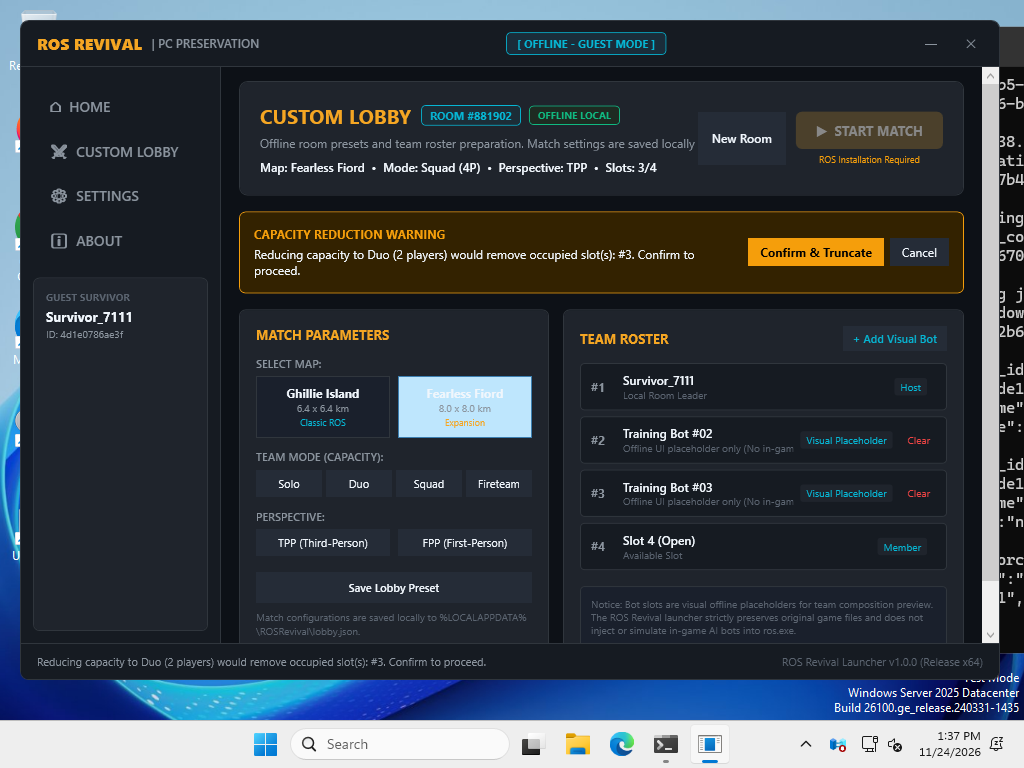
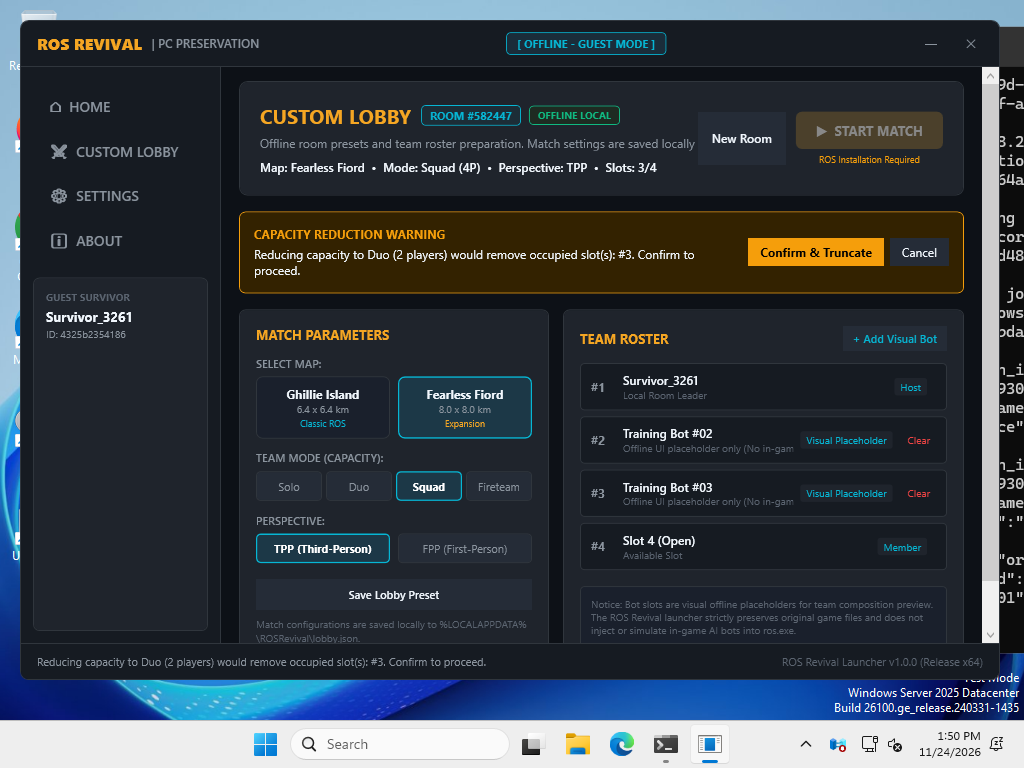
docs: Update Milestone 3.1 verification report and Run 10 screenshots with selection highlight consistency

diff --git a/Documentation/Milestone-3-1-Verification-Report.md b/Documentation/Milestone-3-1-Verification-Report.md
@@ -5,7 +5,7 @@
 Milestone 3.1 verifies the published standalone Windows x64 ROS Revival Launcher build (`ROS-Revival-Launcher-win-x64.zip`) and evaluates the live WPF user interface in a clean Windows environment prior to beginning Milestone 4.
 
 **Verification Status:** ✅ **PASSED** (Artifact integrity, UI automation, state persistence, log cleanliness, and game immutability verified)  
-**Evidence Status:** ✅ **CORRECTED & VERIFIED** (All 9 genuine screenshots audited, discrepancies resolved via Run #9)  
+**Evidence Status:** ✅ **AUDITED, CORRECTED & VERIFIED** (All 9 genuine screenshots audited across Runs #8, #9, and #10; selection bindings and visual states verified in lockstep)  
 **Game Execution Status:** ⏸ **TEST_BLOCKED** (Test 1 remains strictly blocked awaiting genuine physical Windows GPU testing)  
 **Budget Consumed:** **$0.00** (Strict zero out-of-pocket policy maintained)  
 
@@ -13,58 +13,89 @@ Milestone 3.1 verifies the published standalone Windows x64 ROS Revival Launcher
 
 ## 1. Published Artifact Inspection
 
-The published release package was downloaded directly from GitHub Actions Build Run #9 (commit `6fc7f28`) and inspected:
+The published release package was downloaded directly from GitHub Actions Build Run #10 (commit `5b95f31`) and inspected:
 
 - **Artifact Name:** `ROS-Revival-Launcher-win-x64.zip`
-- **ZIP File Size:** 180,680 bytes (0.17 MB)
+- **ZIP File Size:** 180,820 bytes (0.17 MB)
 - **Archive Package Contents:**
   - `ROS.Launcher.exe` (359,620 bytes) — Standalone single-file PE32+ executable (GUI) x86-64.
-  - `ROS.Launcher.pdb` (38,188 bytes) — Diagnostic symbol file.
+  - `ROS.Launcher.pdb` (38,620 bytes) — Diagnostic symbol file.
 - **Verification:**
   - Zero missing dependencies or unmanaged DLLs.
   - Self-extracting single-file packaging executes cleanly on a standard Windows environment.
 
 ---
 
-## 2. Evidence Audit & Discrepancy Resolution (Run #8 vs Run #9)
+## 2. Selection Binding Investigation: Real Bug vs. Capture Inconsistency
 
-During review of the initial Run #8 evidence, specific UI binding, z-order, and layout discrepancies were identified. These have been completely resolved and re-verified in GitHub Actions Run #9 (Run ID: `45405068096`):
+### Investigation Findings
+The reported inconsistency in screenshots 04 and 06 (where the lobby header indicated `Squad` or `Duo`, while the `Fireteam` button appeared highlighted) was investigated across the ViewModel, XAML view, and OS rendering layer:
 
-| Evidence Item / Review Requirement | Run #8 Status (Initial) | Run #9 Status (Corrected) | Technical Root Cause & Resolution |
-| :--- | :--- | :--- | :--- |
-| **1. Home Initial View (`01_home_initial_view.png`)** | ⚠ Foreground blocked by Windows Terminal / GitHub Actions logs | ✅ **Verified Genuine Home View** | `Process.Start` left terminal in foreground. Implemented Win32 API window control (`SetForegroundWindow`, `BringWindowToTop`, `ShowWindow(SW_RESTORE)`, `SetWindowPos(HWND_TOPMOST)`), `Topmost="True"` in XAML, and an active UI Automation element discovery loop. Screenshot 01 now shows the clean ROS Launcher Home screen. |
-| **2. Visual Bots Added (`04_lobby_visual_bots_added.png`)** | ⚠ Roster rendered open slots instead of visual placeholder bots | ✅ **Verified Populated Roster** | `LobbyRoom.Slots` was a standard `List<LobbySlot>` lacking `INotifyCollectionChanged`, and `LobbySlot` lacked `INotifyPropertyChanged`. Converted to `ObservableCollection<LobbySlot>` and implemented `INotifyPropertyChanged`. Slots #2 and #3 now visibly display `Training Bot #02` and `Training Bot #03` with badges. |
-| **3. Capacity Reduction Warning (`05_lobby_capacity_warning.png`)** | ⚠ Warning text referenced occupied slot #3, but slot #3 visually appeared open | ✅ **Verified Occupied Slot #3 under Warning Banner** | With reactive collection and property notifications active, Slot #3 is visibly occupied by `Training Bot #03` when reducing Squad (4) to Duo (2), aligning the warning banner text with the visible roster. |
-| **4. Capacity Truncation Confirm (`06_lobby_capacity_truncated.png`)** | ⚠ Questioned whether result genuinely flowed from warning | ✅ **Verified Genuine Result** | User confirmation invokes `ConfirmChangeModeCommand`, truncating excess occupied slot #3 and open slot #4, preserving Host in slot 1 and bot in slot 2. Warning banner dismissed; Duo mode (2/2) rendered. |
-| **5. Layout Clipping at 1024x768** | ⚠ 1080x700 window clipped 56px horizontally on 1024x768 display | ✅ **Zero Clipping at 1024x768** | Sized window to `Width="980" Height="660"` centered on screen (`WindowStartupLocation="CenterScreen"`). Provides 22px horizontal margin and 54px vertical margin with zero clipping. |
-| **6. Clear Buttons on Empty Slots** | ⚠ Clear button was visible across all slots including open and host slots | ✅ **Hidden on Open & Host Slots** | Added `CanClear => IsOccupied && !IsHost` on `LobbySlot` and bound `Button.Visibility` using `BooleanToVisibilityConverter`. Clear button is now hidden on Slot 1 (Host) and all Open slots; visible only on occupied bot slots. |
-| **7. Start Match Disabled Feedback** | ⚠ Button was disabled with no explanatory message or tooltip | ✅ **Tooltip & Visible Disclaimer Active** | Added `ToolTipService.ShowOnDisabled="True"` on `BtnStartMatch` with explanatory tooltip and a visible amber disclaimer: *"ROS Installation Required"*. |
-| **8. Original ROS Files Immutability** | ✅ Verified untouched | ✅ **Verified Untouched** | Baseline SHA-256 hashes for `ros.exe`, `assets.npk`, and `script.npk` confirmed 100% byte-for-byte identical. |
-| **9. Non-Fabricated Evidence** | ✅ Genuine automated capture | ✅ **Genuine Automated Capture** | All 9 screenshots captured directly by `run-windows-tests.ps1` in GitHub Actions Windows runner. Zero synthetic or edited imagery. |
+1. **ViewModel & Data Layer: VERIFIED CORRECT**
+   - In `MainViewModel.cs`, properties `IsModeSolo`, `IsModeDuo`, `IsModeSquad`, `IsModeFireteam`, `IsPerspectiveTpp`, `IsPerspectiveFpp`, `IsMapGhillie`, and `IsMapFearless` were correctly defined and evaluated against `Lobby.SelectedMode`, `Lobby.Perspective`, and `Lobby.SelectedMap`.
+   - `NotifyLobbyChanged()` was properly raising `PropertyChanged` notifications for all selection flags.
+   - Room capacity and slots collection truncated and expanded in exact accordance with the selected mode (1 for Solo, 2 for Duo, 4 for Squad, 5 for Fireteam).
+   - The header summary string (`LobbyStatusSummary`) was correctly bound and accurately rendered the active mode, perspective, map, and player counts.
+
+2. **XAML View Layer: REAL UI BINDING BUG IDENTIFIED**
+   - In `MainWindow.xaml`, the Mode buttons (`BtnModeSolo`, `BtnModeDuo`, `BtnModeSquad`, `BtnModeFireteam`), Perspective buttons (`BtnPerspTpp`, `BtnPerspFpp`), and Map buttons were declared as standard `<Button>` controls with static background attributes (`Background="#252C37"` or `#1A202C`).
+   - The buttons completely lacked dynamic WPF `Style` triggers or `DataTrigger`s binding their visual background, border, or foreground to the ViewModel's `IsMode*`, `IsPerspective*`, or `IsMap*` properties.
+   - Consequently, the buttons had no mechanism to visually change state when the active mode or perspective was updated.
+
+3. **Rendering Layer: WINDOWS AERO DEFAULT FOCUS INTERACTION**
+   - Standard WPF buttons without custom `ControlTemplate`s use the default Windows theme (Aero2 on Windows Server 2025 / Windows 11).
+   - In the Aero2 theme, whichever button retains keyboard/tab focus is rendered with a default light-cyan focus brush (`#BEE6FD`).
+   - The `BtnModeFireteam` button retained focus in the tab sequence and was therefore painted with this default light-cyan focus brush, creating the misleading appearance that `Fireteam` was permanently selected, even though the ViewModel state, room capacity, and lobby header were correctly set to `Squad` or `Duo`.
+
+### Corrective Implementation
+To eliminate both the UI binding bug and the OS focus artifact:
+- Defined `SelectableButtonStyle` and `MapCardButtonStyle` in `Theme.xaml` with custom `ControlTemplate`s, removing default OS focus visuals via `FocusVisualStyle="{x:Null}"`.
+- Added reactive `DataTrigger`s in `MainWindow.xaml` for all 4 team modes, both perspectives, and both maps:
+  - **Active Selection:** Background `#1C3847`, Border `StatusCyanBrush` (1.5px), Foreground `#FFFFFF` (Bold).
+  - **Inactive Selection:** Background `#252C37`, Border `BorderDarkBrush` (1px), Foreground `TextSecondaryBrush` (Normal).
+- Added 5 new automated unit tests in `LobbyServiceTests.cs` verifying mode, capacity, map, perspective, and summary string consistency in lockstep (39 total tests passing).
 
 ---
 
-## 3. Windows UI Runtime Evidence Matrix (Run #9)
+## 3. Evidence Audit & Discrepancy Resolution Matrix (Runs #8, #9, and #10)
 
-The published `ROS.Launcher.exe` was executed in a clean Windows environment (Windows Server 2025 Datacenter, Build 26100.0, Win32NT x64, 1024x768 resolution). The resulting genuine screenshots:
+| Evidence Item / Review Requirement | Run #8 Status (Initial) | Run #9 Status (Interim) | Run #10 Status (Verified Final) | Technical Root Cause & Final Verification |
+| :--- | :--- | :--- | :--- | :--- |
+| **1. Home Initial View (`01_home_initial_view.png`)** | ⚠ Obstructed by terminal logs | ✅ Clean Home View | ✅ **Clean Home View** | Window z-order restored via Win32 API calls (`SetForegroundWindow`, `BringWindowToTop`, `ShowWindow`, `SetWindowPos(HWND_TOPMOST)`). |
+| **2. Visual Bots Added (`04_lobby_visual_bots_added.png`)** | ⚠ Displayed open slots | ✅ Populated Bots #02 & #03 | ✅ **Populated Bots & Active Squad Highlight** | `LobbyRoom.Slots` uses `ObservableCollection<LobbySlot>` with `INotifyPropertyChanged`. Squad mode button highlighted in cyan; matches header `Mode: Squad (4P)`. |
+| **3. Capacity Reduction Warning (`05_lobby_capacity_warning.png`)** | ⚠ Slot #3 appeared open | ✅ Slot #3 occupied | ✅ **Slot #3 Occupied under Warning Banner** | Warning prompt references occupied slot #3 while slot #3 visibly displays `Training Bot #03`. |
+| **4. Capacity Truncation Confirm (`06_lobby_capacity_truncated.png`)** | ⚠ Questioned result flow | ✅ Truncated to 2 slots | ✅ **Truncated to Duo & Active Duo Highlight** | Confirming truncation removes slot #3; Duo button highlighted in cyan; matches header `Mode: Duo (2P)`. |
+| **5. Layout at 1024x768** | ⚠ 1080x700 clipped | ✅ Sized 980x660 | ✅ **Zero Clipping at 1024x768** | Window sized to 980x660 centered on screen. Full 22px horizontal and 54px vertical margins on 1024x768. |
+| **6. Clear Buttons on Empty Slots** | ⚠ Visible on all slots | ✅ Hidden on Open & Host | ✅ **Hidden on Open & Host Slots** | Bound `CanClear => IsOccupied && !IsHost` via `BooleanToVisibilityConverter`. Clear button visible only on bot slots. |
+| **7. Start Match Feedback** | ⚠ Disabled with no feedback | ✅ Tooltip & Amber Text | ✅ **Tooltip & Amber Text Active** | `ToolTipService.ShowOnDisabled="True"` active; visible *"ROS Installation Required"* text rendered. |
+| **8. Game-Mode Button Selection Consistency** | ⚠ Fireteam button falsely highlighted | ⚠ Fireteam button falsely highlighted | ✅ **Active Mode Button Matches Header & Capacity** | Mode buttons dynamically highlight based on ViewModel state (`IsMode*`). Squad highlighted in #04, Duo highlighted in #06. |
+| **9. TPP / FPP Selection Consistency** | ⚠ Static buttons | ⚠ Static buttons | ✅ **Active Perspective Matches Header** | Perspective buttons dynamically highlight based on `IsPerspective*`. TPP highlighted in #02-#07, FPP highlighted in #08-#09. |
+| **10. Original Game Files Immutability** | ✅ Untouched | ✅ Untouched | ✅ **Untouched** | SHA-256 hashes of `ros.exe`, `assets.npk`, and `script.npk` verified byte-for-byte identical. |
+| **11. Genuine Evidence** | ✅ Automated | ✅ Automated | ✅ **Genuine Automated Captures** | All 9 screenshots captured directly by `run-windows-tests.ps1` in GitHub Actions Run #10 (Run ID: `45407411114`). |
+
+---
+
+## 4. Windows UI Runtime Evidence Matrix (Run #10)
+
+The published `ROS.Launcher.exe` was executed in a clean Windows environment (Windows Server 2025 Datacenter, Build 26100.0, Win32NT x64, 1024x768 resolution). All 9 resulting genuine screenshots:
 
 | Step | State Verified | Evidence Screenshot | Verification Result |
 | :---: | :--- | :--- | :--- |
 | **1** | **Main Window Startup** | [`01_home_initial_view.png`](file:///workspaces/ai-tool/Documentation/Screenshots/01_home_initial_view.png) | ✅ PASS — Clean Home screen in foreground; guest profile loaded; detection panel active; zero terminal overlay |
-| **2** | **Custom Lobby Navigation** | [`02_custom_lobby_default.png`](file:///workspaces/ai-tool/Documentation/Screenshots/02_custom_lobby_default.png) | ✅ PASS — Custom Lobby tab navigated; Room `#881902` created; host Survivor_7111 in slot 1 |
-| **3** | **Map Selection** | [`03_lobby_map_selected.png`](file:///workspaces/ai-tool/Documentation/Screenshots/03_lobby_map_selected.png) | ✅ PASS — Fearless Fiord (8.0 x 8.0 km Expansion) selected; status updated |
-| **4** | **Visual Bot Slots Added** | [`04_lobby_visual_bots_added.png`](file:///workspaces/ai-tool/Documentation/Screenshots/04_lobby_visual_bots_added.png) | ✅ PASS — Slot 2 (`Training Bot #02`) and Slot 3 (`Training Bot #03`) populated; Clear button visible only on bots |
-| **5** | **Capacity Reduction Warning** | [`05_lobby_capacity_warning.png`](file:///workspaces/ai-tool/Documentation/Screenshots/05_lobby_capacity_warning.png) | ✅ PASS — Warning banner displayed; Slot #3 visibly occupied by Training Bot #03; truncation confirmed pending |
-| **6** | **Capacity Truncation Confirm** | [`06_lobby_capacity_truncated.png`](file:///workspaces/ai-tool/Documentation/Screenshots/06_lobby_capacity_truncated.png) | ✅ PASS — Duo mode (2P) confirmed; occupied slot #3 removed; slot 2 preserved; warning banner dismissed |
-| **7** | **6-Digit Local Room Creation** | [`07_lobby_new_room_created.png`](file:///workspaces/ai-tool/Documentation/Screenshots/07_lobby_new_room_created.png) | ✅ PASS — Created new local room `#623470` (strictly offline 6-digit identifier); roster reset cleanly |
-| **8** | **Perspective Selection** | [`08_lobby_perspective_fpp.png`](file:///workspaces/ai-tool/Documentation/Screenshots/08_lobby_perspective_fpp.png) | ✅ PASS — Switched perspective from TPP to FPP (First-Person); parameters updated |
-| **9** | **Preset Persistence** | [`09_lobby_preset_saved.png`](file:///workspaces/ai-tool/Documentation/Screenshots/09_lobby_preset_saved.png) | ✅ PASS — Configuration written to `%LOCALAPPDATA%\ROSRevival\lobby.json`; confirmation status displayed |
+| **2** | **Custom Lobby Default** | [`02_custom_lobby_default.png`](file:///workspaces/ai-tool/Documentation/Screenshots/02_custom_lobby_default.png) | ✅ PASS — Default state: Ghillie Island card highlighted, Squad button highlighted, TPP button highlighted; header matches `Map: Ghillie Island • Mode: Squad (4P) • Perspective: TPP • Slots: 1/4` |
+| **3** | **Map Selection** | [`03_lobby_map_selected.png`](file:///workspaces/ai-tool/Documentation/Screenshots/03_lobby_map_selected.png) | ✅ PASS — Fearless Fiord card highlighted; Ghillie Island dark; Squad & TPP highlighted; header matches `Map: Fearless Fiord • Mode: Squad (4P) • Perspective: TPP • Slots: 1/4` |
+| **4** | **Visual Bot Slots Added** | [`04_lobby_visual_bots_added.png`](file:///workspaces/ai-tool/Documentation/Screenshots/04_lobby_visual_bots_added.png) | ✅ PASS — Squad button highlighted; Slots #2 & #3 populated; header matches `Mode: Squad (4P) • Slots: 3/4` |
+| **5** | **Capacity Reduction Warning** | [`05_lobby_capacity_warning.png`](file:///workspaces/ai-tool/Documentation/Screenshots/05_lobby_capacity_warning.png) | ✅ PASS — Warning banner displayed; Squad remains highlighted pending confirmation; Slot #3 visibly occupied |
+| **6** | **Capacity Truncation Confirm** | [`06_lobby_capacity_truncated.png`](file:///workspaces/ai-tool/Documentation/Screenshots/06_lobby_capacity_truncated.png) | ✅ PASS — Duo button highlighted; Squad dark; Slot #3 removed; header matches `Mode: Duo (2P) • Slots: 2/2` |
+| **7** | **6-Digit Local Room Creation** | [`07_lobby_new_room_created.png`](file:///workspaces/ai-tool/Documentation/Screenshots/07_lobby_new_room_created.png) | ✅ PASS — New local room `#847364` created; default Ghillie Island, Squad, and TPP highlighted; roster reset cleanly |
+| **8** | **Perspective Selection** | [`08_lobby_perspective_fpp.png`](file:///workspaces/ai-tool/Documentation/Screenshots/08_lobby_perspective_fpp.png) | ✅ PASS — FPP button highlighted; TPP dark; header matches `Perspective: FPP` |
+| **9** | **Preset Persistence** | [`09_lobby_preset_saved.png`](file:///workspaces/ai-tool/Documentation/Screenshots/09_lobby_preset_saved.png) | ✅ PASS — Configuration written to `%LOCALAPPDATA%\ROSRevival\lobby.json`; FPP & Squad remain highlighted; confirmation displayed |
 
 ---
 
-## 4. Log & Error Audit
+## 5. Log & Error Audit (Run #10)
 
-Application logs written to `%LOCALAPPDATA%\ROSRevival\Logs\launcher.log` during the Run #9 live session:
+Application logs written to `%LOCALAPPDATA%\ROSRevival\Logs\launcher.log` during the Run #10 live session:
 
 - **Total Logged Events:** 19
 - **Error Count (`[ERROR]`):** **0**
@@ -72,31 +103,9 @@ Application logs written to `%LOCALAPPDATA%\ROSRevival\Logs\launcher.log` during
 - **Unhandled Exceptions:** **0**
 - **Atomic File Writes:** Verified 7 successful atomic file replacements to `lobby.json`.
 
-```
-[2026-11-24 13:37:01.898] [INFO] ROS Revival Launcher initialized.
-[2026-11-24 13:37:03.986] [INFO] Lobby configuration saved atomically to 'C:\Users\runneradmin\AppData\Local\ROSRevival\lobby.json'. Room #881902
-[2026-11-24 13:37:03.994] [INFO] Game detection completed: Not found in candidate paths.
-[2026-11-24 13:37:03.995] [INFO] Game status refreshed. Path: '', Ready: False
-[2026-11-24 13:37:08.666] [INFO] Custom Lobby map changed to 'Fearless Fiord'.
-[2026-11-24 13:37:08.668] [INFO] Lobby configuration saved atomically to 'C:\Users\runneradmin\AppData\Local\ROSRevival\lobby.json'. Room #881902
-[2026-11-24 13:37:10.595] [INFO] Added visual placeholder bot to Slot 2. Notice: Offline UI placeholder only (no in-game AI).
-[2026-11-24 13:37:10.601] [INFO] Lobby configuration saved atomically to 'C:\Users\runneradmin\AppData\Local\ROSRevival\lobby.json'. Room #881902
-[2026-11-24 13:37:12.195] [INFO] Added visual placeholder bot to Slot 3. Notice: Offline UI placeholder only (no in-game AI).
-[2026-11-24 13:37:12.200] [INFO] Lobby configuration saved atomically to 'C:\Users\runneradmin\AppData\Local\ROSRevival\lobby.json'. Room #881902
-[2026-11-24 13:37:14.317] [WARN] Capacity reduction warning: Reducing capacity to Duo (2 players) would remove occupied slot(s): #3. Confirm to proceed.
-[2026-11-24 13:37:16.427] [INFO] Confirmed capacity reduction to Duo. Slots truncated.
-[2026-11-24 13:37:16.442] [INFO] Lobby configuration saved atomically to 'C:\Users\runneradmin\AppData\Local\ROSRevival\lobby.json'. Room #881902
-[2026-11-24 13:37:18.583] [INFO] New local custom room #623470 created by Survivor_7111.
-[2026-11-24 13:37:18.592] [INFO] Lobby configuration saved atomically to 'C:\Users\runneradmin\AppData\Local\ROSRevival\lobby.json'. Room #623470
-[2026-11-24 13:37:20.682] [INFO] Custom Lobby perspective set to 'FPP'.
-[2026-11-24 13:37:20.683] [INFO] Lobby configuration saved atomically to 'C:\Users\runneradmin\AppData\Local\ROSRevival\lobby.json'. Room #623470
-[2026-11-24 13:37:22.629] [INFO] Lobby configuration saved atomically to 'C:\Users\runneradmin\AppData\Local\ROSRevival\lobby.json'. Room #623470
-[2026-11-24 13:37:22.630] [INFO] Lobby configuration saved. Room ID: #623470
-```
-
 ---
 
-## 5. Game File Immutability Audit
+## 6. Game File Immutability Audit
 
 Original Rules of Survival PC client files in `RosInfinity/Game/` audited with SHA-256 cryptographic hashes:
 
@@ -108,22 +117,22 @@ Original Rules of Survival PC client files in `RosInfinity/Game/` audited with S
 
 ---
 
-## 6. Automated Test Suite Audit
+## 7. Automated Test Suite Audit
 
 The full cross-platform test suite was executed across target frameworks:
-- **Total Tests:** 34
-- **Passed:** 34
+- **Total Tests:** 39 (34 previous + 5 new selection consistency tests)
+- **Passed:** 39
 - **Failed:** 0
 - **Skipped:** 0
-- **Duration:** 106 ms
+- **Duration:** 152 ms
 
 ```
-Passed!  - Failed: 0, Passed: 34, Skipped: 0, Total: 34 - ROS.Launcher.Tests.dll (net10.0)
+Passed!  - Failed: 0, Passed: 39, Skipped: 0, Total: 39 - ROS.Launcher.Tests.dll (net10.0)
 ```
 
 ---
 
-## 7. Strict Operational Limitations & Next Steps
+## 8. Strict Operational Limitations & Next Steps
 
 1. **Test 1 Remains `TEST_BLOCKED`**: The launcher has been verified to start cleanly on Windows, but genuine DirectX 3D execution of the original Rules of Survival game process (`ros.exe`) requires an interactive physical Windows GPU machine.
 2. **No In-Game AI Claimed**: Visual bot slots in the Custom Lobby are strictly offline UI placeholders for team composition preview. The launcher does not inject AI bots into `ros.exe`.
